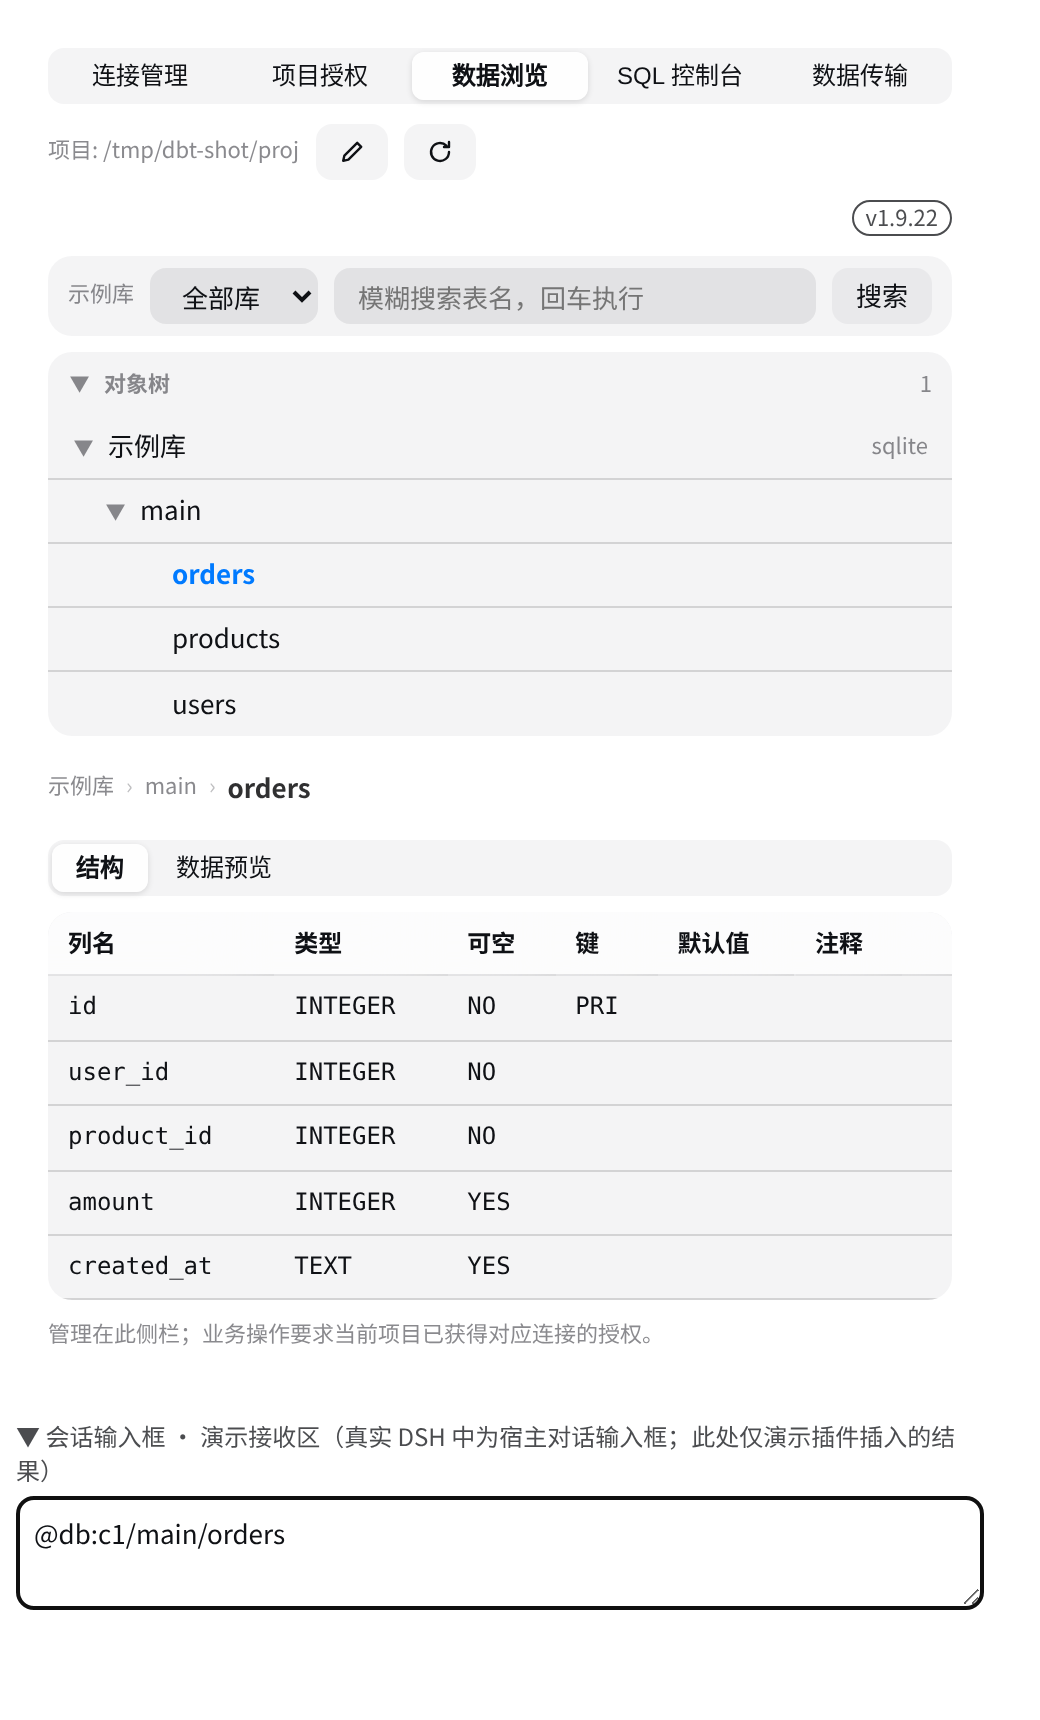
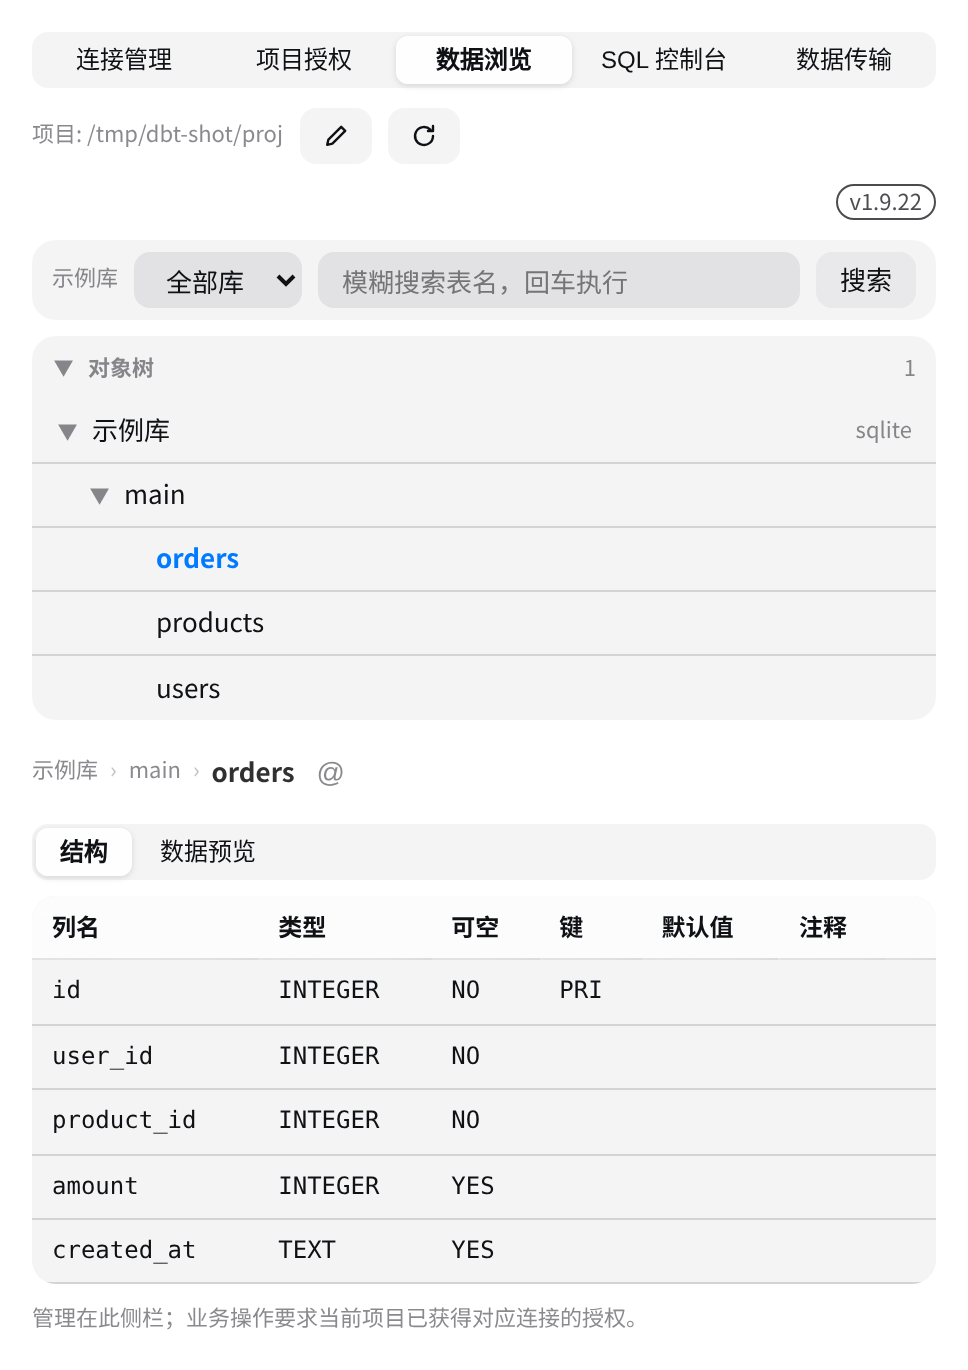
杂项(取证): 演示截图去除演示接收区，仅保留数据浏览面板本体

diff --git a/assets/table-mention/README.md b/assets/table-mention/README.md
@@ -28,7 +28,7 @@
 
 ## 操作演示（鼠标点击全流程，亮色）
 
-同一真实产物，页面下方带「会话输入框 · 演示接收区」（明确标注：真实 DSH 中为宿主对话输入框，此处仅展示插件插入的记号）。四步全为鼠标点击/悬停，无键盘输入。@ 图标平时隐藏，悬停所在行才浮现（demo-1/demo-3 为静止态，demo-2/demo-4 为悬停浮现并点击后的结果态）：
+同一真实产物，截图仅呈现数据浏览面板本体。四步全为鼠标点击/悬停，无键盘输入。@ 图标平时隐藏，悬停所在行才浮现（demo-1/demo-3 为静止态，demo-2/demo-4 为悬停浮现并点击后的结果态）：
 
 1. **demo-1**：对象树点开树壳 → 点连接 → 点 main → 点 orders —— 面包屑就位（@ 图标静止隐藏，不显眼）
 2. **demo-2**：鼠标悬停面包屑（@ 图标浮现）→ 点击 → 接收区插入 `@db:c1/main/orders`（发送后助手即可读该表）
